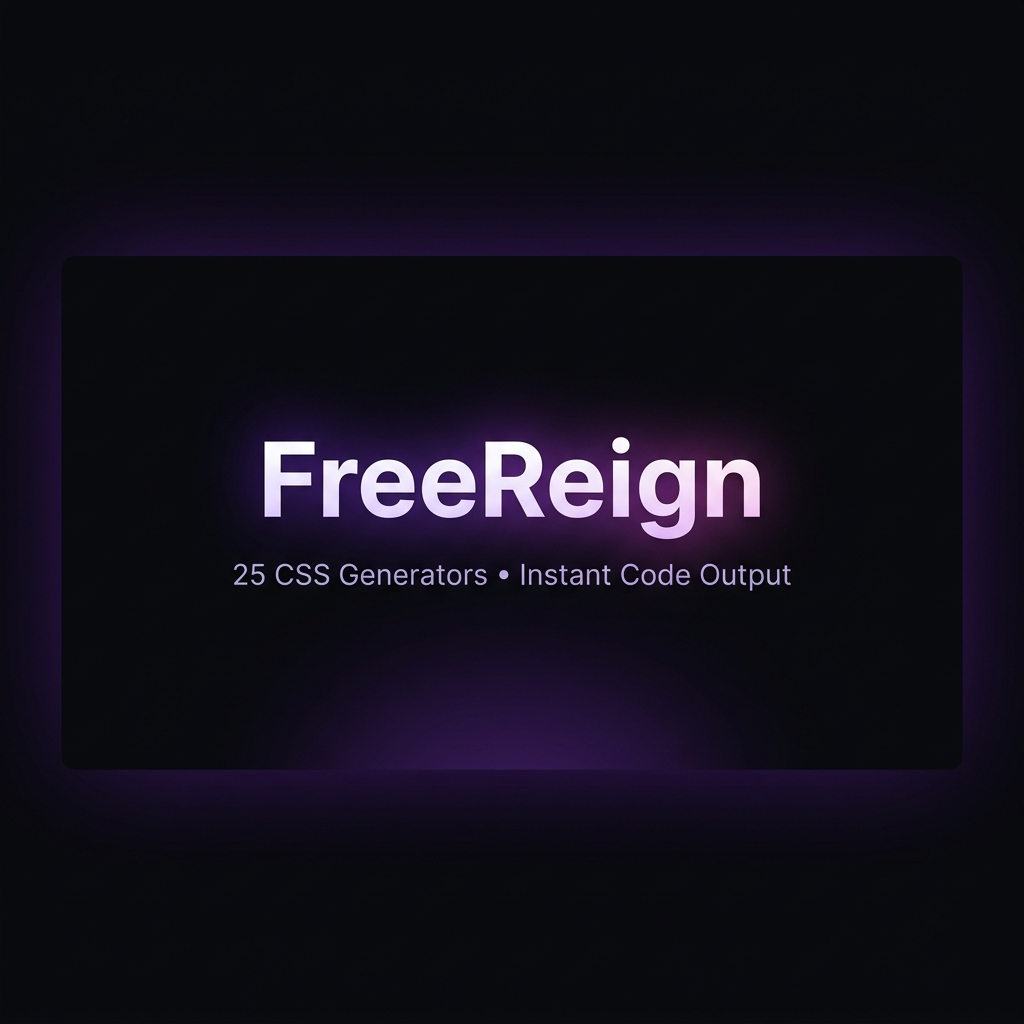
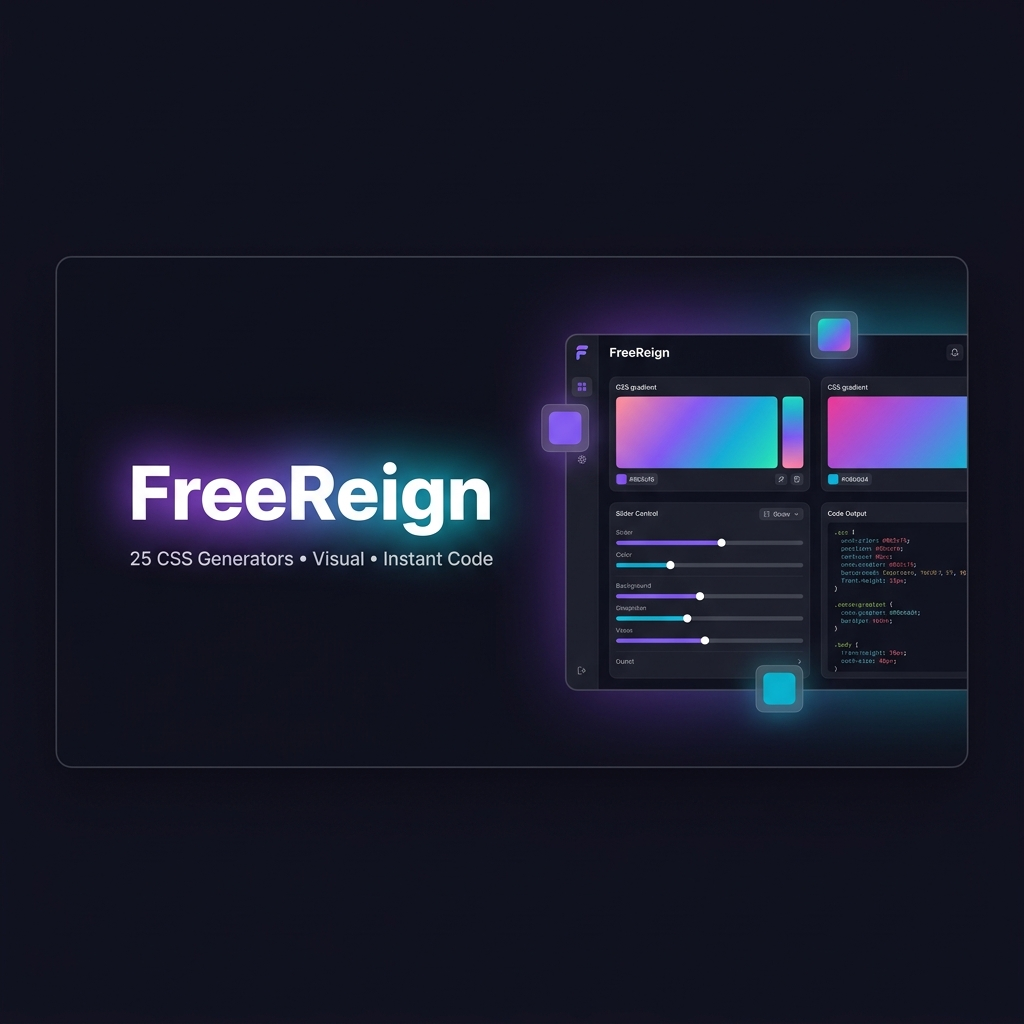
feat: new OG image, blog index page, sitemap update - launch prep

Changed region(s): [[0.0625, 0.25, 0.9688, 0.7812]]

diff --git a/public/blog/index.html b/public/blog/index.html
@@ -1,0 +1,136 @@
+<!DOCTYPE html>
+<html lang="en">
+<head>
+  <meta charset="UTF-8">
+  <meta name="viewport" content="width=device-width, initial-scale=1.0">
+  <title>CSS Guides & Tutorials | FreeReign Blog</title>
+  <meta name="description" content="In-depth CSS guides: glassmorphism, clip-path shapes, fluid typography with clamp(), container queries, and more. Each guide includes copy-paste recipes and links to free visual generators.">
+  <link rel="canonical" href="https://freereign.dev/blog/">
+  <link rel="icon" type="image/svg+xml" href="/favicon.svg">
+  <script defer data-domain="freereign.dev" src="https://analytics.freereign.dev/js/script.outbound-links.js"></script>
+  <script>window.plausible = window.plausible || function () { (window.plausible.q = window.plausible.q || []).push(arguments) }</script>
+
+  <meta property="og:title" content="CSS Guides & Tutorials | FreeReign Blog">
+  <meta property="og:description" content="In-depth CSS guides with copy-paste recipes and free visual generators.">
+  <meta property="og:image" content="https://freereign.dev/og-image.png">
+  <meta property="og:url" content="https://freereign.dev/blog/">
+  <meta property="og:type" content="website">
+
+  <meta name="twitter:card" content="summary_large_image">
+  <meta name="twitter:title" content="CSS Guides & Tutorials | FreeReign Blog">
+  <meta name="twitter:description" content="In-depth CSS guides with copy-paste recipes and free visual generators.">
+  <meta name="twitter:image" content="https://freereign.dev/og-image.png">
+
+  <link href="https://fonts.googleapis.com/css2?family=Inter:wght@400;500;600;700;800&family=JetBrains+Mono:wght@400;500&display=swap" rel="stylesheet">
+  <style>
+    *, *::before, *::after { box-sizing: border-box; margin: 0; padding: 0; }
+    :root {
+      --bg: #0f0f14; --bg-surface: #16161d; --bg-elevated: #1e1e28;
+      --text: #e8e6f0; --text-secondary: #9896a8; --text-tertiary: #6b6980;
+      --accent: #8b5cf6; --accent-secondary: #06b6d4;
+      --border: rgba(255,255,255,0.08); --radius: 12px;
+    }
+    body { font-family: 'Inter', system-ui, sans-serif; background: var(--bg); color: var(--text); line-height: 1.7; }
+    .container { max-width: 820px; margin: 0 auto; padding: 48px 24px; }
+    .breadcrumb { font-size: 0.8rem; color: var(--text-tertiary); margin-bottom: 28px; }
+    .breadcrumb a { color: var(--accent); text-decoration: none; }
+    .breadcrumb a:hover { text-decoration: underline; }
+    h1 { font-size: 2.2rem; font-weight: 800; line-height: 1.2; margin-bottom: 10px;
+      background: linear-gradient(135deg, var(--accent), var(--accent-secondary));
+      -webkit-background-clip: text; background-clip: text; -webkit-text-fill-color: transparent; }
+    .subtitle { font-size: 1.05rem; color: var(--text-secondary); margin-bottom: 40px; }
+    .posts { display: grid; gap: 20px; }
+    .post { display: block; background: var(--bg-surface); border: 1px solid var(--border);
+      border-radius: 16px; padding: 28px 28px 24px; text-decoration: none; color: var(--text);
+      transition: border-color 250ms, transform 250ms, box-shadow 250ms; }
+    .post:hover { border-color: var(--accent); transform: translateY(-3px);
+      box-shadow: 0 12px 40px rgba(139,92,246,0.15); }
+    .post__icon { font-size: 1.6rem; margin-bottom: 10px; }
+    .post__title { font-size: 1.15rem; font-weight: 700; margin-bottom: 6px; }
+    .post__desc { font-size: 0.88rem; color: var(--text-secondary); line-height: 1.6; }
+    .post__meta { display: flex; align-items: center; gap: 12px; margin-top: 14px;
+      font-size: 0.75rem; color: var(--text-tertiary); }
+    .post__tag { background: var(--bg-elevated); padding: 3px 10px; border-radius: 6px;
+      font-family: 'JetBrains Mono', monospace; font-size: 0.7rem; color: #c4b5fd; }
+    .cta-banner { text-align: center; margin-top: 48px; padding: 36px 24px;
+      background: var(--bg-surface); border: 1px solid var(--border); border-radius: 16px; }
+    .cta-banner h2 { font-size: 1.3rem; font-weight: 700; margin-bottom: 8px; }
+    .cta-banner p { color: var(--text-secondary); font-size: 0.92rem; margin-bottom: 18px; }
+    .cta-btn { display: inline-flex; align-items: center; gap: 8px; padding: 14px 30px;
+      border-radius: var(--radius); font-size: 1rem; font-weight: 700;
+      background: linear-gradient(135deg, var(--accent), var(--accent-secondary));
+      color: #fff; text-decoration: none; transition: transform 200ms, box-shadow 200ms;
+      box-shadow: 0 4px 20px rgba(139,92,246,0.3); }
+    .cta-btn:hover { transform: translateY(-2px); box-shadow: 0 8px 30px rgba(139,92,246,0.4); }
+    footer { text-align: center; padding: 32px; font-size: 0.8rem; color: var(--text-tertiary); }
+    footer a { color: var(--accent); text-decoration: none; }
+    @media (max-width: 600px) { h1 { font-size: 1.7rem; } }
+  </style>
+</head>
+<body>
+  <div class="container">
+    <nav class="breadcrumb">
+      <a href="https://freereign.dev">FreeReign</a> / Blog
+    </nav>
+
+    <h1>CSS Guides & Tutorials</h1>
+    <p class="subtitle">Deep dives into modern CSS — each guide has copy-paste recipes and links to a free visual generator.</p>
+
+    <div class="posts">
+      <a class="post" href="/blog/how-to-create-glassmorphism-css">
+        <div class="post__icon">🪟</div>
+        <div class="post__title">How to Create Glassmorphism in CSS (2026 Guide)</div>
+        <div class="post__desc">The backdrop-filter recipe, the three-layer technique, responsive breakpoints, Tailwind setup, and a free generator to build glassmorphism cards visually.</div>
+        <div class="post__meta">
+          <span class="post__tag">backdrop-filter</span>
+          <span class="post__tag">glassmorphism</span>
+          <span>June 2026</span>
+        </div>
+      </a>
+
+      <a class="post" href="/blog/css-clip-path-guide">
+        <div class="post__icon">✂️</div>
+        <div class="post__title">CSS clip-path: The Complete Guide (Shapes, Polygons + Generator)</div>
+        <div class="post__desc">Every clip-path shape function explained — the polygon coordinate system, copy-paste recipes for hexagons, stars, arrows, animation, and browser support.</div>
+        <div class="post__meta">
+          <span class="post__tag">clip-path</span>
+          <span class="post__tag">polygon</span>
+          <span>June 2026</span>
+        </div>
+      </a>
+
+      <a class="post" href="/blog/css-fluid-typography-clamp">
+        <div class="post__icon">📐</div>
+        <div class="post__title">CSS Fluid Typography with clamp(): The Complete Guide</div>
+        <div class="post__desc">Scale font sizes smoothly across viewports without breakpoints. The formula, the accessibility trap to avoid, a full fluid type scale, and Tailwind integration.</div>
+        <div class="post__meta">
+          <span class="post__tag">clamp()</span>
+          <span class="post__tag">fluid-type</span>
+          <span>June 2026</span>
+        </div>
+      </a>
+
+      <a class="post" href="/blog/css-container-queries">
+        <div class="post__icon">📦</div>
+        <div class="post__title">CSS Container Queries: The Complete Guide (with Examples)</div>
+        <div class="post__desc">Make components respond to their container instead of the viewport. container-type, @container syntax, cqi/cqw units, browser support, and Tailwind.</div>
+        <div class="post__meta">
+          <span class="post__tag">@container</span>
+          <span class="post__tag">container-type</span>
+          <span>June 2026</span>
+        </div>
+      </a>
+    </div>
+
+    <div class="cta-banner">
+      <h2>Skip the docs, build it visually</h2>
+      <p>25 interactive CSS generators with live preview and instant code output.</p>
+      <a class="cta-btn" href="https://freereign.dev">Explore all tools →</a>
+    </div>
+  </div>
+
+  <footer>
+    <p>Made with ◆ by <a href="https://freereign.dev">FreeReign</a> · 25 CSS generators · <a href="https://freereign.dev/tools/">All tools</a></p>
+  </footer>
+</body>
+</html>